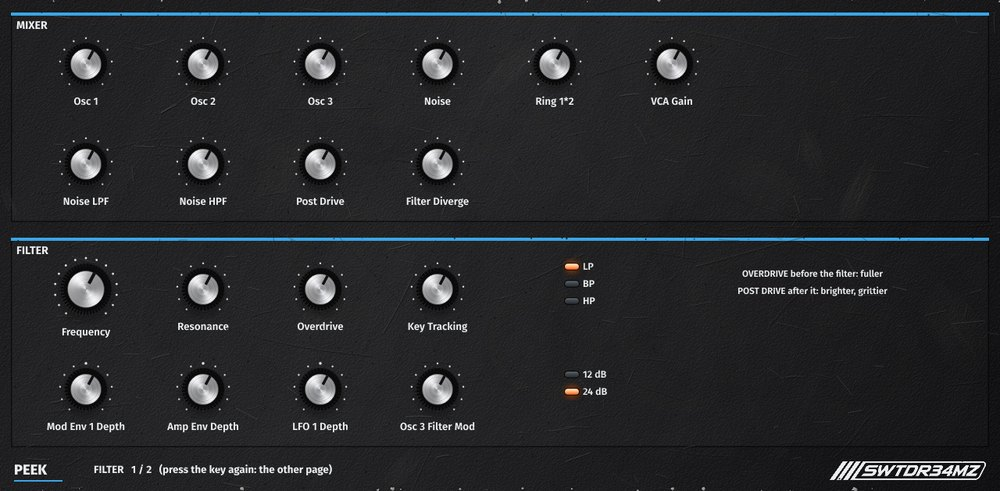
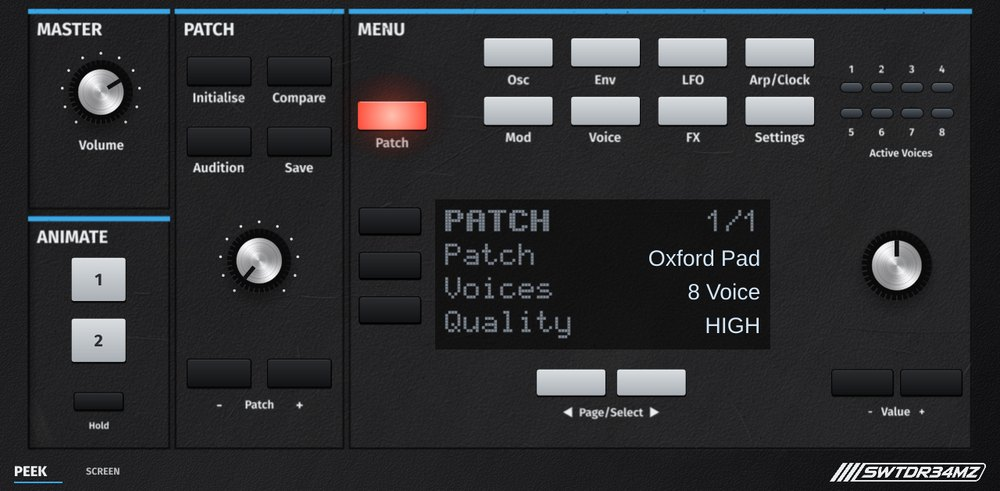
PEEK MPC card: the four Peak pages (v1.0.3)
Claude-Session: https://claude.ai/code/session_019gwqiQXP2YSPwne3Q7bLKj

diff --git a/index.html b/index.html
@@ -552,7 +552,7 @@
       <div class="shot"><img src="img/peek-mpc.jpg" alt="PEEK on the MPC" loading="lazy"></div>
       <div class="body">
         <h3>PEEK<span class="vers"><span class="ver" data-ver>v1.0.0</span></span></h3>
-        <p>PEEK on your MPC: the whole synth on twelve touch pages, its 32 factory sounds, the Animate buttons, 8 or 16 voices.</p>
+        <p>PEEK on your MPC: four pages laid out like the Peak itself (oscillators, filter and effects, envelopes and LFOs, and the menu with a working display), its 32 factory sounds, the Animate buttons, 8 or 16 voices.</p>
         <p class="note">Download the MPC files from the release page.</p>
         <div class="tags"><span>MPC</span></div>
         <div class="actions">
